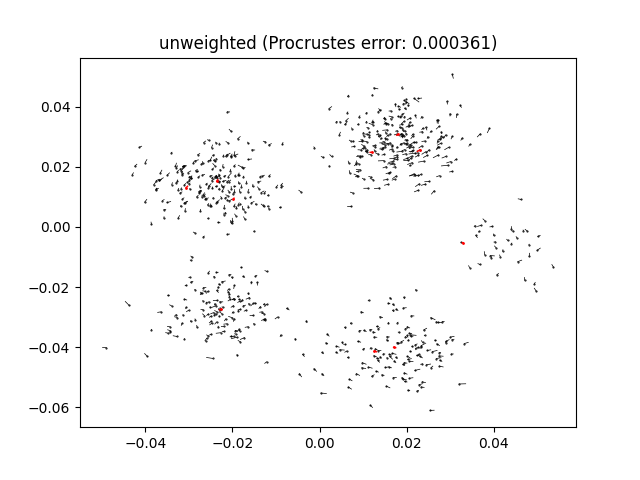
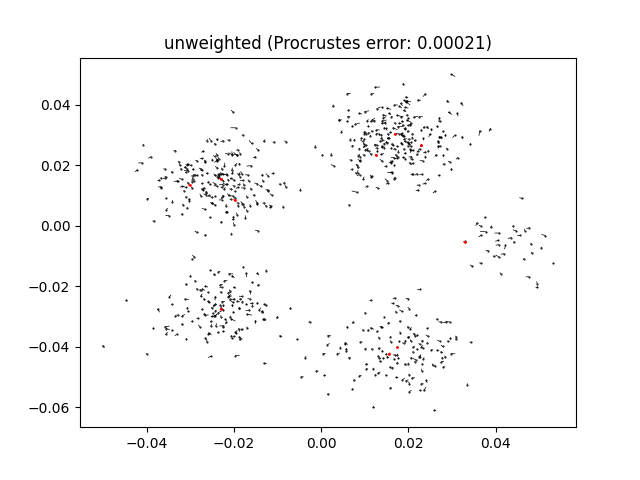
fix weird formatting of references

diff --git a/docs/searchindex.js b/docs/searchindex.js
@@ -1,1 +1,1 @@
-Search.setIndex({docnames:["index","installation","reference","reference/local2global.example","reference/local2global.example.Voronoi_patches","reference/local2global.example.add_noise","reference/local2global.example.generate_data","reference/local2global.example.noise_profile","reference/local2global.example.plot_reconstruction","reference/local2global.example.rand_orth","reference/local2global.example.rand_rotate_patches","reference/local2global.example.rand_scale_patches","reference/local2global.example.rand_shift_patches","reference/local2global.example.save_data","reference/local2global.test_local2global","reference/local2global.test_local2global.iter_seed","reference/local2global.test_local2global.seed","reference/local2global.test_local2global.test_calc_synchronised_rotations","reference/local2global.test_local2global.test_calc_synchronised_scales","reference/local2global.test_local2global.test_calc_synchronised_translations","reference/local2global.test_local2global.test_get_aligned_embedding","reference/local2global.test_local2global.test_noisy_calc_synchronised_rotations","reference/local2global.test_local2global.test_noisy_calc_synchronised_scales","reference/local2global.test_local2global.test_noisy_calc_synchronised_translations","reference/local2global.test_local2global.test_noisy_get_aligned_embedding","reference/local2global.test_local2global.test_stability","reference/local2global.utils","reference/local2global.utils.AlignmentProblem","reference/local2global.utils.Patch","reference/local2global.utils.WeightedAlignmentProblem","reference/local2global.utils.ensure_extension","reference/local2global.utils.nearest_orthogonal","reference/local2global.utils.orthogonal_MSE_error","reference/local2global.utils.procrustes_error","reference/local2global.utils.relative_orthogonal_transform","reference/local2global.utils.relative_scale","reference/local2global.utils.seed","reference/local2global.utils.transform_error","test","usage/index","usage/sg_execution_times","usage/usage","usage_source/README"],envversion:{"sphinx.domains.c":2,"sphinx.domains.changeset":1,"sphinx.domains.citation":1,"sphinx.domains.cpp":4,"sphinx.domains.index":1,"sphinx.domains.javascript":2,"sphinx.domains.math":2,"sphinx.domains.python":3,"sphinx.domains.rst":2,"sphinx.domains.std":2,"sphinx.ext.viewcode":1,sphinx:56},filenames:["index.rst","installation.rst","reference.rst","reference/local2global.example.rst","reference/local2global.example.Voronoi_patches.rst","reference/local2global.example.add_noise.rst","reference/local2global.example.generate_data.rst","reference/local2global.example.noise_profile.rst","reference/local2global.example.plot_reconstruction.rst","reference/local2global.example.rand_orth.rst","reference/local2global.example.rand_rotate_patches.rst","reference/local2global.example.rand_scale_patches.rst","reference/local2global.example.rand_shift_patches.rst","reference/local2global.example.save_data.rst","reference/local2global.test_local2global.rst","reference/local2global.test_local2global.iter_seed.rst","reference/local2global.test_local2global.seed.rst","reference/local2global.test_local2global.test_calc_synchronised_rotations.rst","reference/local2global.test_local2global.test_calc_synchronised_scales.rst","reference/local2global.test_local2global.test_calc_synchronised_translations.rst","reference/local2global.test_local2global.test_get_aligned_embedding.rst","reference/local2global.test_local2global.test_noisy_calc_synchronised_rotations.rst","reference/local2global.test_local2global.test_noisy_calc_synchronised_scales.rst","reference/local2global.test_local2global.test_noisy_calc_synchronised_translations.rst","reference/local2global.test_local2global.test_noisy_get_aligned_embedding.rst","reference/local2global.test_local2global.test_stability.rst","reference/local2global.utils.rst","reference/local2global.utils.AlignmentProblem.rst","reference/local2global.utils.Patch.rst","reference/local2global.utils.WeightedAlignmentProblem.rst","reference/local2global.utils.ensure_extension.rst","reference/local2global.utils.nearest_orthogonal.rst","reference/local2global.utils.orthogonal_MSE_error.rst","reference/local2global.utils.procrustes_error.rst","reference/local2global.utils.relative_orthogonal_transform.rst","reference/local2global.utils.relative_scale.rst","reference/local2global.utils.seed.rst","reference/local2global.utils.transform_error.rst","test.rst","usage/index.rst","usage/sg_execution_times.rst","usage/usage.rst","usage_source/README.rst"],objects:{"local2global.example":{Voronoi_patches:[4,1,1,""],add_noise:[5,1,1,""],generate_data:[6,1,1,""],noise_profile:[7,1,1,""],plot_reconstruction:[8,1,1,""],rand_orth:[9,1,1,""],rand_rotate_patches:[10,1,1,""],rand_scale_patches:[11,1,1,""],rand_shift_patches:[12,1,1,""],save_data:[13,1,1,""]},"local2global.test_local2global":{iter_seed:[15,1,1,""],seed:[16,1,1,""],test_calc_synchronised_rotations:[17,1,1,""],test_calc_synchronised_scales:[18,1,1,""],test_calc_synchronised_translations:[19,1,1,""],test_get_aligned_embedding:[20,1,1,""],test_noisy_calc_synchronised_rotations:[21,1,1,""],test_noisy_calc_synchronised_scales:[22,1,1,""],test_noisy_calc_synchronised_translations:[23,1,1,""],test_noisy_get_aligned_embedding:[24,1,1,""],test_stability:[25,1,1,""]},"local2global.utils":{AlignmentProblem:[27,2,1,""],Patch:[28,2,1,""],WeightedAlignmentProblem:[29,2,1,""],ensure_extension:[30,1,1,""],nearest_orthogonal:[31,1,1,""],orthogonal_MSE_error:[32,1,1,""],procrustes_error:[33,1,1,""],relative_orthogonal_transform:[34,1,1,""],relative_scale:[35,1,1,""],seed:[36,1,1,""],transform_error:[37,1,1,""]},"local2global.utils.AlignmentProblem":{__init__:[27,3,1,""],calc_synchronised_rotations:[27,3,1,""],calc_synchronised_scales:[27,3,1,""],calc_synchronised_translations:[27,3,1,""],get_aligned_embedding:[27,3,1,""],load:[27,3,1,""],mean_embedding:[27,3,1,""],rotate_patches:[27,3,1,""],save_embedding:[27,3,1,""],save_patches:[27,3,1,""],scale_patches:[27,3,1,""],translate_patches:[27,3,1,""],weight:[27,3,1,""]},"local2global.utils.Patch":{__init__:[28,3,1,""],get_coordinate:[28,3,1,""],get_coordinates:[28,3,1,""]},"local2global.utils.WeightedAlignmentProblem":{__init__:[29,3,1,""],calc_synchronised_rotations:[29,3,1,""],calc_synchronised_scales:[29,3,1,""],calc_synchronised_translations:[29,3,1,""],get_aligned_embedding:[29,3,1,""],load:[29,3,1,""],mean_embedding:[29,3,1,""],rotate_patches:[29,3,1,""],save_embedding:[29,3,1,""],save_patches:[29,3,1,""],scale_patches:[29,3,1,""],translate_patches:[29,3,1,""],weight:[29,3,1,""]},local2global:{example:[3,0,0,"-"],test_local2global:[14,0,0,"-"],utils:[26,0,0,"-"]}},objnames:{"0":["py","module","Python module"],"1":["py","function","Python function"],"2":["py","class","Python class"],"3":["py","method","Python method"]},objtypes:{"0":"py:module","1":"py:function","2":"py:class","3":"py:method"},terms:{"0":[1,6,7,11,12,27,29,35,40,41],"00":40,"01":[11,41],"02":40,"1":[0,1,4,5,6,11,27,29,41],"10":[0,6,41],"100":[4,12],"100000000":[27,29,35],"101":7,"1145":0,"12224":0,"1e8":[27,29],"2":[0,6,41],"200":6,"2012":0,"2021":0,"21":0,"2107":0,"2240092":0,"2240093":0,"3":0,"300":41,"3g":41,"42":41,"5":[6,7,41],"6":4,"705":[40,41],"8":0,"case":41,"class":[26,27,28,29,41],"default":[4,6,7,8,27,29,41],"final":4,"float":[4,6,11,12],"function":[3,7,14,26],"import":41,"int":[4,6,27,29],"new":36,"return":[4,7,10,11,12,27,29,30,41],"true":[4,7,8,10,11,12,27,29,41],A:0,For:[38,41],If:[1,27,29],In:41,The:[0,1,37,38,41],To:[1,38,41],__init__:[27,28,29],accept:41,accord:29,accordingli:7,acm:0,across:37,ad:[4,12,30],add:[5,30,41],add_nois:41,after:37,algorithm:[0,26,27,29],align:[0,5,7,8,10,11,12,27,29,33,34],alignment_problem:[5,10,11,12],alignmentproblem:[5,7,10,11,12,29,41],all:[27,29,37,39],allow:[27,29],along:38,alpha:41,alreadi:[27,29],also:41,an:27,ani:[4,38,41],appli:[27,29],ar:[4,11,27,29,38,41],arg:38,argument:38,arrai:[27,28,29,33,34,35],artifici:41,arxiv:0,assign:[4,41],assum:41,assumpt:41,attribut:[27,28,29],avail:41,base:[0,27,28,29,37],base_problem:7,bazzi:0,behaviour:41,best:[27,29,34],between:[7,29,32,33],bool:[4,7,27,29],both:41,c:41,cach:41,calc_synchronised_rot:[27,29],calc_synchronised_scal:[27,29],calc_synchronised_transl:[27,29],calcul:25,call:41,can:[1,37,41],center:[4,6,41],centroid:[27,29],chang:36,check:[30,38],choos:4,circl:41,clamp:35,classmethod:[27,29],click:41,clip:[27,29],closest:4,cluster:[6,41],code:[0,39,41],colavizza:0,com:1,command:38,common:[27,29],comparison:41,compon:41,comput:[27,29,31,32,33,35,37],connect:[4,27,29,41],consid:[4,27,29,41],consist:41,constant:37,constraint:[4,41],contain:[38,41],control:41,coordin:[27,28,29,33,34,35,41],coordinates1:[33,34,35],coordinates2:[33,34,35],copi:[27,29],copy_data:[27,29],correspond:[5,28],creat:4,cs:0,cucuringu:0,d:4,data:[0,3,6,7,38],degre:4,desir:30,detail:38,develop:1,deviat:[5,6,7,12,37,41],diagnost:[27,29],dim:[6,9,27,28,29,41],dimens:[4,6,27,29,41],distanc:41,distribut:[5,6,9,12,41],dlg:0,doi:0,dong:0,download:[39,41],each:[5,7,8,27,29,41],edg:[4,27,29,41],eigenvector:[0,25],element:37,embed:[0,4,27,28,29,37],ensur:9,ep:[4,41],equal:41,error:[7,8,33,37,41],error_weight:41,euclidean:0,even:[27,29],ex:41,exampl:[0,39,41],execut:40,exist:[27,29],expand:[4,41],expect:41,extens:30,f:41,factor:[11,27],fals:[4,27,29],file:[27,29,40],filenam:[13,27,29,30],find:34,first:[27,29,32,33,34,35,41],fix:41,form:41,from:[4,11,27,28,29],full:41,further:41,g:0,galleri:[39,41],gener:[0,3,6,36,39],generate_data:41,get:28,get_aligned_embed:[27,29,41],get_coordin:28,git:1,github:[0,1],given:[27,29,31],global:[0,32,37],goal:41,graph:[0,4,27,41],ground:41,group:0,grown:4,ha:[30,41],have:[7,33,34,35],here:41,heterogen:41,host:0,http:1,i:[27,29],identifi:41,illustr:41,implement:[0,26,27,41],includ:[7,27,29,30,38],increment:4,indec:28,index:[27,28,29],inform:[27,29],initi:4,initialis:[27,28,29],input:[0,27,29,30,31,41],instal:0,instead:[1,27,29],integ:28,interfac:41,interv:11,ipynb:41,iter:28,itself:[27,29],j:[27,29],jeub:0,json:[27,29],jupyt:[39,41],k:41,kdd:0,kmean:[4,41],l2g:41,label:7,latest:1,learn:0,least:[27,29,41],legend:7,len:[4,28],level:7,lg:0,like:[28,33,34,35],line:38,lipman:0,list:[4,5,7,10,11,27,28,29,32,37,41],ljeub:1,load:[27,29],local2glob:[1,38],local:0,log:11,loop:[27,29],m:[0,38],mai:41,main:41,make:[4,41],master:1,mat:31,matplotlib:41,matric:32,matrix:[9,31],max_nois:7,max_scal:[27,29],max_siz:[6,41],maximum:[6,7,27,29,41],mb:40,mean:[37,41],mean_embed:[27,29],method:[0,27,28,29],min_degre:4,min_overlap:[4,7,17,18,19,20,21,22,23,24,25,27,29],min_scal:11,min_siz:[4,6],minimum:[4,6,11,27,29],minut:41,more:41,mse:32,multipli:5,n:4,n_cluster:[6,41],n_node:[27,29],ndarrai:[4,12],nearest:[4,31,41],necessari:[4,30],need:[33,34,35,41],network:0,networkx:4,new_se:36,next:[4,41],node:[27,28,29,34,35,41],nois:[5,7,21,22,23,24,41],noise_level:[5,7],none:[4,5,7,27,29],normal:[5,6,9,12,41],note:[33,34,35],notebook:[39,41],np:[4,12],number:[4,6,7,27,29,36,41],numpi:[27,29],object:[27,28,41],obtain:0,onli:[27,29,37],option:[5,41],orthogon:[9,27,29,31,32,34],other:41,otherwis:4,output:[27,29],over:[0,27,29,37],overlap:[0,4,27,29,41],overrid:27,p:41,packag:[1,38,41],pair:[27,29,41],param:[27,29],paramet:[4,5,6,7,8,10,11,12,27,28,29,30,31,32,33,34,35,36,37],part:41,pass:38,patch:[0,4,5,7,8,10,11,12,17,18,19,20,21,22,23,24,25,27,29,37],patch_edg:[27,29],path:[27,29],perform:38,pip:1,plot:[7,8],plot_reconstruct:41,plt:41,point:[4,5,6,7,8,13,20,24,27,29,41],posit:8,print:[27,29],problem:[5,7,8,10,11,12,27,29],problem_cl:[17,18,19,20,22,24,25],procrust:[7,33,41],provid:[27,29,41],purpos:41,py:[40,41],pyplot:41,pytest:38,python:[0,38,39,41],radiu:6,rais:30,rand_rotate_patch:41,rand_shift_patch:41,random:[4,5,9,36,41],randomli:[10,11,12],rang:[27,29],realign:[27,29,41],recomput:[27,29],reconstruct:[7,8,14,38,41],recov:37,recovered_point:41,recovered_points_weight:41,recoveri:37,reflect:[27,29,41],rel:[27,29,35],releas:1,represent:0,requir:[27,29],rerun:41,rescal:[8,11,27,29],restor:[27,29],result:[7,41],return_graph:4,robust:41,rotat:[7,10,27,29,37,41],rotate_patch:[27,29],rots1:32,rots2:32,run:[1,38,41],s:41,same:[7,33,34,35,41],sampl:[4,9,11],sample_s:[4,41],satisfi:[4,41],save:[27,29],save_embed:[27,29],save_patch:[27,29],scale:[0,5,6,7,8,11,27,29,35,37,41],scale_factor:[27,29],scale_patch:[27,29],scatter:41,script:41,second:[27,29,32,33,34,35,41],see:[38,41],seed:41,self:[27,29],self_loop:[27,29],sensor:0,separ:41,set:[0,4,32,33,34,35],shape:[4,28,33,34,35],share:[29,41],shift:[7,12,41],shift_scal:[12,41],shortest:4,should:[7,37],show:41,simpli:1,singer:0,singl:[28,41],size:[4,6,41],smaller:4,some:41,sourc:[0,4,5,6,7,8,9,10,11,12,13,15,16,17,18,19,20,21,22,23,24,25,27,28,29,30,31,32,33,34,35,36,37,39,41],space:41,sphere:6,sphinx:[39,41],split:[4,41],stabil:25,standard:[5,6,7,12,27,37,41],start:4,std:[6,41],step:[0,7],subclass:[7,27],subsequ:41,synchron:[0,27,29],synchronis:[0,27,29],synthet:[0,3,38],test:[0,3,6,7,9,10,11,12,14,25],test_class:21,test_local2glob:[0,38],than:4,thei:41,them:0,thi:[0,27,41],time:41,titl:41,toler:4,total:[40,41],track:37,train:0,transact:0,transform:[5,10,12,27,29,32,34,37,41],translat:[27,29,37,41],translate_patch:[27,29],true_rot:41,true_shift:41,truth:41,two:[4,27,29,32,33,34,35],type:7,uniform:9,uniformli:[4,11,41],unit:41,unless:41,until:4,unweight:[27,41],up:[32,37],us:[0,1,4,7,9,10,11,12,27,38,41],usag:[0,40],usage_jupyt:39,usage_python:39,usual:7,util:[0,5,10,11,12,41],v:1,valu:[7,36],valueerror:30,variant:29,vector:12,verbos:[27,29],version:1,via:0,visualis:41,voronoi:4,voronoi_patch:41,want:1,we:[37,41],weight:[27,29,41],weighted_problem:41,weightedalignmentproblem:41,when:41,where:[27,29,38,41],which:41,whose:41,within:[4,41],without:[7,41],work:41,wrong:30,x:[0,27,29],y:0,you:1,zip:39},titles:["Home","Installation","Reference","local2global.example","local2global.example.Voronoi_patches","local2global.example.add_noise","local2global.example.generate_data","local2global.example.noise_profile","local2global.example.plot_reconstruction","local2global.example.rand_orth","local2global.example.rand_rotate_patches","local2global.example.rand_scale_patches","local2global.example.rand_shift_patches","local2global.example.save_data","local2global.test_local2global","local2global.test_local2global.iter_seed","local2global.test_local2global.seed","local2global.test_local2global.test_calc_synchronised_rotations","local2global.test_local2global.test_calc_synchronised_scales","local2global.test_local2global.test_calc_synchronised_translations","local2global.test_local2global.test_get_aligned_embedding","local2global.test_local2global.test_noisy_calc_synchronised_rotations","local2global.test_local2global.test_noisy_calc_synchronised_scales","local2global.test_local2global.test_noisy_calc_synchronised_translations","local2global.test_local2global.test_noisy_get_aligned_embedding","local2global.test_local2global.test_stability","local2global.utils","local2global.utils.AlignmentProblem","local2global.utils.Patch","local2global.utils.WeightedAlignmentProblem","local2global.utils.ensure_extension","local2global.utils.nearest_orthogonal","local2global.utils.orthogonal_MSE_error","local2global.utils.procrustes_error","local2global.utils.relative_orthogonal_transform","local2global.utils.relative_scale","local2global.utils.seed","local2global.utils.transform_error","Tests","Usage","Computation times","Usage","Usage"],titleterms:{add_nois:5,algorithm:41,align:41,alignmentproblem:27,comput:40,content:0,data:41,embed:41,ensure_extens:30,exampl:[3,4,5,6,7,8,9,10,11,12,13],gener:41,generate_data:6,global:41,home:0,index:0,instal:1,iter_se:15,local2glob:[0,3,4,5,6,7,8,9,10,11,12,13,14,15,16,17,18,19,20,21,22,23,24,25,26,27,28,29,30,31,32,33,34,35,36,37,41],nearest_orthogon:31,noise_profil:7,orthogonal_mse_error:32,patch:[28,41],perturb:41,plot_reconstruct:8,problem:41,procrustes_error:33,rand_orth:9,rand_rotate_patch:10,rand_scale_patch:11,rand_shift_patch:12,recov:41,refer:[0,2],relative_orthogonal_transform:34,relative_scal:35,save_data:13,seed:[16,36],set:41,synthet:41,test:[38,41],test_calc_synchronised_rot:17,test_calc_synchronised_scal:18,test_calc_synchronised_transl:19,test_get_aligned_embed:20,test_local2glob:[14,15,16,17,18,19,20,21,22,23,24,25],test_noisy_calc_synchronised_rot:21,test_noisy_calc_synchronised_scal:22,test_noisy_calc_synchronised_transl:23,test_noisy_get_aligned_embed:24,test_stabl:25,time:40,transform_error:37,up:41,usag:[39,41,42],util:[26,27,28,29,30,31,32,33,34,35,36,37],voronoi_patch:4,weightedalignmentproblem:29}})
+Search.setIndex({docnames:["index","installation","reference","reference/local2global.example","reference/local2global.example.Voronoi_patches","reference/local2global.example.add_noise","reference/local2global.example.generate_data","reference/local2global.example.noise_profile","reference/local2global.example.plot_reconstruction","reference/local2global.example.rand_orth","reference/local2global.example.rand_rotate_patches","reference/local2global.example.rand_scale_patches","reference/local2global.example.rand_shift_patches","reference/local2global.example.save_data","reference/local2global.test_local2global","reference/local2global.test_local2global.iter_seed","reference/local2global.test_local2global.seed","reference/local2global.test_local2global.test_calc_synchronised_rotations","reference/local2global.test_local2global.test_calc_synchronised_scales","reference/local2global.test_local2global.test_calc_synchronised_translations","reference/local2global.test_local2global.test_get_aligned_embedding","reference/local2global.test_local2global.test_noisy_calc_synchronised_rotations","reference/local2global.test_local2global.test_noisy_calc_synchronised_scales","reference/local2global.test_local2global.test_noisy_calc_synchronised_translations","reference/local2global.test_local2global.test_noisy_get_aligned_embedding","reference/local2global.test_local2global.test_stability","reference/local2global.utils","reference/local2global.utils.AlignmentProblem","reference/local2global.utils.Patch","reference/local2global.utils.WeightedAlignmentProblem","reference/local2global.utils.ensure_extension","reference/local2global.utils.nearest_orthogonal","reference/local2global.utils.orthogonal_MSE_error","reference/local2global.utils.procrustes_error","reference/local2global.utils.relative_orthogonal_transform","reference/local2global.utils.relative_scale","reference/local2global.utils.seed","reference/local2global.utils.transform_error","test","usage/index","usage/sg_execution_times","usage/usage","usage_source/README"],envversion:{"sphinx.domains.c":2,"sphinx.domains.changeset":1,"sphinx.domains.citation":1,"sphinx.domains.cpp":4,"sphinx.domains.index":1,"sphinx.domains.javascript":2,"sphinx.domains.math":2,"sphinx.domains.python":3,"sphinx.domains.rst":2,"sphinx.domains.std":2,"sphinx.ext.viewcode":1,sphinx:56},filenames:["index.rst","installation.rst","reference.rst","reference/local2global.example.rst","reference/local2global.example.Voronoi_patches.rst","reference/local2global.example.add_noise.rst","reference/local2global.example.generate_data.rst","reference/local2global.example.noise_profile.rst","reference/local2global.example.plot_reconstruction.rst","reference/local2global.example.rand_orth.rst","reference/local2global.example.rand_rotate_patches.rst","reference/local2global.example.rand_scale_patches.rst","reference/local2global.example.rand_shift_patches.rst","reference/local2global.example.save_data.rst","reference/local2global.test_local2global.rst","reference/local2global.test_local2global.iter_seed.rst","reference/local2global.test_local2global.seed.rst","reference/local2global.test_local2global.test_calc_synchronised_rotations.rst","reference/local2global.test_local2global.test_calc_synchronised_scales.rst","reference/local2global.test_local2global.test_calc_synchronised_translations.rst","reference/local2global.test_local2global.test_get_aligned_embedding.rst","reference/local2global.test_local2global.test_noisy_calc_synchronised_rotations.rst","reference/local2global.test_local2global.test_noisy_calc_synchronised_scales.rst","reference/local2global.test_local2global.test_noisy_calc_synchronised_translations.rst","reference/local2global.test_local2global.test_noisy_get_aligned_embedding.rst","reference/local2global.test_local2global.test_stability.rst","reference/local2global.utils.rst","reference/local2global.utils.AlignmentProblem.rst","reference/local2global.utils.Patch.rst","reference/local2global.utils.WeightedAlignmentProblem.rst","reference/local2global.utils.ensure_extension.rst","reference/local2global.utils.nearest_orthogonal.rst","reference/local2global.utils.orthogonal_MSE_error.rst","reference/local2global.utils.procrustes_error.rst","reference/local2global.utils.relative_orthogonal_transform.rst","reference/local2global.utils.relative_scale.rst","reference/local2global.utils.seed.rst","reference/local2global.utils.transform_error.rst","test.rst","usage/index.rst","usage/sg_execution_times.rst","usage/usage.rst","usage_source/README.rst"],objects:{"local2global.example":{Voronoi_patches:[4,1,1,""],add_noise:[5,1,1,""],generate_data:[6,1,1,""],noise_profile:[7,1,1,""],plot_reconstruction:[8,1,1,""],rand_orth:[9,1,1,""],rand_rotate_patches:[10,1,1,""],rand_scale_patches:[11,1,1,""],rand_shift_patches:[12,1,1,""],save_data:[13,1,1,""]},"local2global.test_local2global":{iter_seed:[15,1,1,""],seed:[16,1,1,""],test_calc_synchronised_rotations:[17,1,1,""],test_calc_synchronised_scales:[18,1,1,""],test_calc_synchronised_translations:[19,1,1,""],test_get_aligned_embedding:[20,1,1,""],test_noisy_calc_synchronised_rotations:[21,1,1,""],test_noisy_calc_synchronised_scales:[22,1,1,""],test_noisy_calc_synchronised_translations:[23,1,1,""],test_noisy_get_aligned_embedding:[24,1,1,""],test_stability:[25,1,1,""]},"local2global.utils":{AlignmentProblem:[27,2,1,""],Patch:[28,2,1,""],WeightedAlignmentProblem:[29,2,1,""],ensure_extension:[30,1,1,""],nearest_orthogonal:[31,1,1,""],orthogonal_MSE_error:[32,1,1,""],procrustes_error:[33,1,1,""],relative_orthogonal_transform:[34,1,1,""],relative_scale:[35,1,1,""],seed:[36,1,1,""],transform_error:[37,1,1,""]},"local2global.utils.AlignmentProblem":{__init__:[27,3,1,""],calc_synchronised_rotations:[27,3,1,""],calc_synchronised_scales:[27,3,1,""],calc_synchronised_translations:[27,3,1,""],get_aligned_embedding:[27,3,1,""],load:[27,3,1,""],mean_embedding:[27,3,1,""],rotate_patches:[27,3,1,""],save_embedding:[27,3,1,""],save_patches:[27,3,1,""],scale_patches:[27,3,1,""],translate_patches:[27,3,1,""],weight:[27,3,1,""]},"local2global.utils.Patch":{__init__:[28,3,1,""],get_coordinate:[28,3,1,""],get_coordinates:[28,3,1,""]},"local2global.utils.WeightedAlignmentProblem":{__init__:[29,3,1,""],calc_synchronised_rotations:[29,3,1,""],calc_synchronised_scales:[29,3,1,""],calc_synchronised_translations:[29,3,1,""],get_aligned_embedding:[29,3,1,""],load:[29,3,1,""],mean_embedding:[29,3,1,""],rotate_patches:[29,3,1,""],save_embedding:[29,3,1,""],save_patches:[29,3,1,""],scale_patches:[29,3,1,""],translate_patches:[29,3,1,""],weight:[29,3,1,""]},local2global:{example:[3,0,0,"-"],test_local2global:[14,0,0,"-"],utils:[26,0,0,"-"]}},objnames:{"0":["py","module","Python module"],"1":["py","function","Python function"],"2":["py","class","Python class"],"3":["py","method","Python method"]},objtypes:{"0":"py:module","1":"py:function","2":"py:class","3":"py:method"},terms:{"0":[1,6,7,11,12,27,29,35,40,41],"00":40,"01":[11,41],"092":[40,41],"1":[0,1,4,5,6,11,27,29,41],"10":[0,6,41],"100":[4,12],"100000000":[27,29,35],"101":7,"1145":0,"12224":0,"1e8":[27,29],"2":[0,6,41],"200":6,"2012":0,"2021":0,"21":0,"2107":0,"22":[40,41],"2240092":0,"2240093":0,"3":0,"300":41,"3g":41,"42":41,"5":[6,7,41],"6":4,"8":0,"case":41,"class":[26,27,28,29,41],"default":[4,6,7,8,27,29,41],"final":4,"float":[4,6,11,12],"function":[3,7,14,26],"import":41,"int":[4,6,27,29],"new":36,"return":[4,7,10,11,12,27,29,30,41],"true":[4,7,8,10,11,12,27,29,41],A:0,For:[38,41],If:[1,27,29],In:41,The:[0,1,37,38,41],To:[1,38,41],__init__:[27,28,29],accept:41,accord:29,accordingli:7,acm:0,across:37,ad:[4,12,30],add:[5,30,41],add_nois:41,after:37,algorithm:[0,26,27,29],align:[0,5,7,8,10,11,12,27,29,33,34],alignment_problem:[5,10,11,12],alignmentproblem:[5,7,10,11,12,29,41],all:[27,29,37,39],allow:[27,29],along:38,alpha:41,alreadi:[27,29],also:41,an:27,ani:[4,38,41],appli:[27,29],ar:[4,11,27,29,38,41],arg:38,argument:38,arrai:[27,28,29,33,34,35],artifici:41,arxiv:0,assign:[4,41],assum:41,assumpt:41,attribut:[27,28,29],avail:41,base:[0,27,28,29,37],base_problem:7,bazzi:0,behaviour:41,best:[27,29,34],between:[7,29,32,33],bool:[4,7,27,29],both:41,c:41,cach:41,calc_synchronised_rot:[27,29],calc_synchronised_scal:[27,29],calc_synchronised_transl:[27,29],calcul:25,call:41,can:[1,37,41],center:[4,6,41],centroid:[27,29],chang:36,check:[30,38],choos:4,circl:41,clamp:35,classmethod:[27,29],click:41,clip:[27,29],closest:4,cluster:[6,41],code:[0,39,41],colavizza:0,com:1,command:38,common:[27,29],comparison:41,compon:41,comput:[27,29,31,32,33,35,37],connect:[4,27,29,41],consid:[4,27,29,41],consist:41,constant:37,constraint:[4,41],contain:[38,41],control:41,coordin:[27,28,29,33,34,35,41],coordinates1:[33,34,35],coordinates2:[33,34,35],copi:[27,29],copy_data:[27,29],correspond:[5,28],creat:4,cs:0,cucuringu:0,d:4,data:[0,3,6,7,38],degre:4,desir:30,detail:38,develop:1,deviat:[5,6,7,12,37,41],diagnost:[27,29],dim:[6,9,27,28,29,41],dimens:[4,6,27,29,41],distanc:41,distribut:[5,6,9,12,41],dlg:0,doi:0,dong:0,download:[39,41],each:[5,7,8,27,29,41],edg:[4,27,29,41],eigenvector:[0,25],element:37,embed:[0,4,27,28,29,37],ensur:9,ep:[4,41],equal:41,error:[7,8,33,37,41],error_weight:41,euclidean:0,even:[27,29],ex:41,exampl:[0,39,41],execut:40,exist:[27,29],expand:[4,41],expect:41,extens:30,f:41,factor:[11,27],fals:[4,27,29],file:[27,29,40],filenam:[13,27,29,30],find:34,first:[27,29,32,33,34,35,41],fix:41,form:41,from:[4,11,27,28,29],full:41,further:41,g:0,galleri:[39,41],gener:[0,3,6,36,39],generate_data:41,get:28,get_aligned_embed:[27,29,41],get_coordin:28,git:1,github:[0,1],given:[27,29,31],global:[0,32,37],goal:41,graph:[0,4,27,41],ground:41,group:0,grown:4,ha:[30,41],have:[7,33,34,35],here:41,heterogen:41,host:0,http:1,i:[27,29],identifi:41,illustr:41,implement:[0,26,27,41],includ:[7,27,29,30,38],increment:4,indec:28,index:[27,28,29],inform:[27,29],initi:4,initialis:[27,28,29],input:[0,27,29,30,31,41],instal:0,instead:[1,27,29],integ:28,interfac:41,interv:11,ipynb:41,iter:28,itself:[27,29],j:[27,29],jeub:0,json:[27,29],jupyt:[39,41],k:41,kdd:0,kmean:[4,41],l2g:41,l:0,label:7,latest:1,learn:0,least:[27,29,41],legend:7,len:[4,28],level:7,lg:0,like:[28,33,34,35],line:38,lipman:0,list:[4,5,7,10,11,27,28,29,32,37,41],ljeub:1,load:[27,29],local2glob:[1,38],local:0,log:11,loop:[27,29],m:[0,38],mai:41,main:41,make:[4,41],master:1,mat:31,matplotlib:41,matric:32,matrix:[9,31],max_nois:7,max_scal:[27,29],max_siz:[6,41],maximum:[6,7,27,29,41],mb:40,mean:[37,41],mean_embed:[27,29],method:[0,27,28,29],min_degre:4,min_overlap:[4,7,17,18,19,20,21,22,23,24,25,27,29],min_scal:11,min_siz:[4,6],minimum:[4,6,11,27,29],minut:41,more:41,mse:32,multipli:5,n:4,n_cluster:[6,41],n_node:[27,29],ndarrai:[4,12],nearest:[4,31,41],necessari:[4,30],need:[33,34,35,41],network:0,networkx:4,new_se:36,next:[4,41],node:[27,28,29,34,35,41],nois:[5,7,21,22,23,24,41],noise_level:[5,7],none:[4,5,7,27,29],normal:[5,6,9,12,41],note:[33,34,35],notebook:[39,41],np:[4,12],number:[4,6,7,27,29,36,41],numpi:[27,29],object:[27,28,41],obtain:0,onli:[27,29,37],option:[5,41],orthogon:[9,27,29,31,32,34],other:41,otherwis:4,output:[27,29],over:[0,27,29,37],overlap:[0,4,27,29,41],overrid:27,p:41,packag:[1,38,41],pair:[27,29,41],param:[27,29],paramet:[4,5,6,7,8,10,11,12,27,28,29,30,31,32,33,34,35,36,37],part:41,pass:38,patch:[0,4,5,7,8,10,11,12,17,18,19,20,21,22,23,24,25,27,29,37],patch_edg:[27,29],path:[27,29],perform:38,pip:1,plot:[7,8],plot_reconstruct:41,plt:41,point:[4,5,6,7,8,13,20,24,27,29,41],posit:8,print:[27,29],problem:[5,7,8,10,11,12,27,29],problem_cl:[17,18,19,20,22,24,25],procrust:[7,33,41],provid:[27,29,41],purpos:41,py:[40,41],pyplot:41,pytest:38,python:[0,38,39,41],radiu:6,rais:30,rand_rotate_patch:41,rand_shift_patch:41,random:[4,5,9,36,41],randomli:[10,11,12],rang:[27,29],realign:[27,29,41],recomput:[27,29],reconstruct:[7,8,14,38,41],recov:37,recovered_point:41,recovered_points_weight:41,recoveri:37,reflect:[27,29,41],rel:[27,29,35],releas:1,represent:0,requir:[27,29],rerun:41,rescal:[8,11,27,29],restor:[27,29],result:[7,41],return_graph:4,robust:41,rotat:[7,10,27,29,37,41],rotate_patch:[27,29],rots1:32,rots2:32,run:[1,38,41],s:[0,41],same:[7,33,34,35,41],sampl:[4,9,11],sample_s:[4,41],satisfi:[4,41],save:[27,29],save_embed:[27,29],save_patch:[27,29],scale:[0,5,6,7,8,11,27,29,35,37,41],scale_factor:[27,29],scale_patch:[27,29],scatter:41,script:41,second:[27,29,32,33,34,35,41],see:[38,41],seed:41,self:[27,29],self_loop:[27,29],sensor:0,separ:41,set:[0,4,32,33,34,35],shape:[4,28,33,34,35],share:[29,41],shift:[7,12,41],shift_scal:[12,41],shortest:4,should:[7,37],show:41,simpli:1,singer:0,singl:[28,41],size:[4,6,41],smaller:4,some:41,sourc:[0,4,5,6,7,8,9,10,11,12,13,15,16,17,18,19,20,21,22,23,24,25,27,28,29,30,31,32,33,34,35,36,37,39,41],space:41,sphere:6,sphinx:[39,41],split:[4,41],stabil:25,standard:[5,6,7,12,27,37,41],start:4,std:[6,41],step:[0,7],subclass:[7,27],subsequ:41,synchron:[0,27,29],synchronis:[0,27,29],synthet:[0,3,38],test:[0,3,6,7,9,10,11,12,14,25],test_class:21,test_local2glob:[0,38],than:4,thei:41,them:0,thi:[0,27,41],time:41,titl:41,toler:4,total:[40,41],track:37,train:0,transact:0,transform:[5,10,12,27,29,32,34,37,41],translat:[27,29,37,41],translate_patch:[27,29],true_rot:41,true_shift:41,truth:41,two:[4,27,29,32,33,34,35],type:7,uniform:9,uniformli:[4,11,41],unit:41,unless:41,until:4,unweight:[27,41],up:[32,37],us:[0,1,4,7,9,10,11,12,27,38,41],usag:[0,40],usage_jupyt:39,usage_python:39,usual:7,util:[0,5,10,11,12,41],v:1,valu:[7,36],valueerror:30,variant:29,vector:12,verbos:[27,29],version:1,via:0,visualis:41,voronoi:4,voronoi_patch:41,want:1,we:[37,41],weight:[27,29,41],weighted_problem:41,weightedalignmentproblem:41,when:41,where:[27,29,38,41],which:41,whose:41,within:[4,41],without:[7,41],work:41,wrong:30,x:[0,27,29],y:0,you:1,zip:39},titles:["Home","Installation","Reference","local2global.example","local2global.example.Voronoi_patches","local2global.example.add_noise","local2global.example.generate_data","local2global.example.noise_profile","local2global.example.plot_reconstruction","local2global.example.rand_orth","local2global.example.rand_rotate_patches","local2global.example.rand_scale_patches","local2global.example.rand_shift_patches","local2global.example.save_data","local2global.test_local2global","local2global.test_local2global.iter_seed","local2global.test_local2global.seed","local2global.test_local2global.test_calc_synchronised_rotations","local2global.test_local2global.test_calc_synchronised_scales","local2global.test_local2global.test_calc_synchronised_translations","local2global.test_local2global.test_get_aligned_embedding","local2global.test_local2global.test_noisy_calc_synchronised_rotations","local2global.test_local2global.test_noisy_calc_synchronised_scales","local2global.test_local2global.test_noisy_calc_synchronised_translations","local2global.test_local2global.test_noisy_get_aligned_embedding","local2global.test_local2global.test_stability","local2global.utils","local2global.utils.AlignmentProblem","local2global.utils.Patch","local2global.utils.WeightedAlignmentProblem","local2global.utils.ensure_extension","local2global.utils.nearest_orthogonal","local2global.utils.orthogonal_MSE_error","local2global.utils.procrustes_error","local2global.utils.relative_orthogonal_transform","local2global.utils.relative_scale","local2global.utils.seed","local2global.utils.transform_error","Tests","Usage","Computation times","Usage","Usage"],titleterms:{add_nois:5,algorithm:41,align:41,alignmentproblem:27,comput:40,content:0,data:41,embed:41,ensure_extens:30,exampl:[3,4,5,6,7,8,9,10,11,12,13],gener:41,generate_data:6,global:41,home:0,index:0,instal:1,iter_se:15,local2glob:[0,3,4,5,6,7,8,9,10,11,12,13,14,15,16,17,18,19,20,21,22,23,24,25,26,27,28,29,30,31,32,33,34,35,36,37,41],nearest_orthogon:31,noise_profil:7,orthogonal_mse_error:32,patch:[28,41],perturb:41,plot_reconstruct:8,problem:41,procrustes_error:33,rand_orth:9,rand_rotate_patch:10,rand_scale_patch:11,rand_shift_patch:12,recov:41,refer:[0,2],relative_orthogonal_transform:34,relative_scal:35,save_data:13,seed:[16,36],set:41,synthet:41,test:[38,41],test_calc_synchronised_rot:17,test_calc_synchronised_scal:18,test_calc_synchronised_transl:19,test_get_aligned_embed:20,test_local2glob:[14,15,16,17,18,19,20,21,22,23,24,25],test_noisy_calc_synchronised_rot:21,test_noisy_calc_synchronised_scal:22,test_noisy_calc_synchronised_transl:23,test_noisy_get_aligned_embed:24,test_stabl:25,time:40,transform_error:37,up:41,usag:[39,41,42],util:[26,27,28,29,30,31,32,33,34,35,36,37],voronoi_patch:4,weightedalignmentproblem:29}})

diff --git a/docs/usage/usage.html b/docs/usage/usage.html
@@ -289,15 +289,15 @@ algorithm unless run with <code class="docutils literal notranslate"><span class
 <span class="n">plt</span><span class="o">.</span><span class="n">show</span><span class="p">()</span>
 </pre></div>
 </div>
-<img alt="unweighted (Procrustes error: 0.000361)" class="sphx-glr-single-img" src="../_images/sphx_glr_usage_003.png" />
+<img alt="unweighted (Procrustes error: 0.00021)" class="sphx-glr-single-img" src="../_images/sphx_glr_usage_003.png" />
 <p>and</p>
 <div class="highlight-default notranslate"><div class="highlight"><pre><span></span><span class="n">error_weighted</span> <span class="o">=</span> <span class="n">ex</span><span class="o">.</span><span class="n">plot_reconstruction</span><span class="p">(</span><span class="n">points</span><span class="p">,</span> <span class="n">weighted_problem</span><span class="p">)</span>
 <span class="n">plt</span><span class="o">.</span><span class="n">title</span><span class="p">(</span><span class="sa">f</span><span class="s2">&quot;weighted (Procrustes error: </span><span class="si">{</span><span class="n">error_weighted</span><span class="si">:</span><span class="s2">.3g</span><span class="si">}</span><span class="s2">)&quot;</span><span class="p">)</span>
 <span class="n">plt</span><span class="o">.</span><span class="n">show</span><span class="p">()</span>
 </pre></div>
 </div>
-<img alt="weighted (Procrustes error: 0.000222)" class="sphx-glr-single-img" src="../_images/sphx_glr_usage_004.png" />
-<p class="sphx-glr-timing"><strong>Total running time of the script:</strong> ( 0 minutes  2.705 seconds)</p>
+<img alt="weighted (Procrustes error: 0.000201)" class="sphx-glr-single-img" src="../_images/sphx_glr_usage_004.png" />
+<p class="sphx-glr-timing"><strong>Total running time of the script:</strong> ( 0 minutes  22.092 seconds)</p>
 <div class="sphx-glr-footer class sphx-glr-footer-example docutils container" id="sphx-glr-download-usage-usage-py">
 <div class="sphx-glr-download sphx-glr-download-python docutils container">
 <p><a class="reference download internal" download="" href="../_downloads/c90e4cd34a05823ce0cbf1807d16de22/usage.py"><code class="xref download docutils literal notranslate"><span class="pre">Download</span> <span class="pre">Python</span> <span class="pre">source</span> <span class="pre">code:</span> <span class="pre">usage.py</span></code></a></p>

diff --git a/docs/index.html b/docs/index.html
@@ -190,20 +190,10 @@ patches as input and aligns them to obtain a global embedding. The alignment ste
 <h3>References<a class="headerlink" href="#references" title="Permalink to this headline">¶</a></h3>
 <dl class="footnote brackets">
 <dt class="label" id="l2g"><span class="brackets"><a class="fn-backref" href="#id1">1</a></span></dt>
-<dd><ol class="upperalpha simple" start="12">
-<li><ol class="upperalpha simple" start="7">
-<li><ol class="upperalpha simple" start="19">
-<li><p>Jeub, G. Colavizza, X. Dong, M. Bazzi, M. Cucuringu (2021). Local2Global: Scaling global representation learning on graphs via local training. DLG-KDD’21. <a class="reference external" href="https://arxiv.org/abs/2107.12224">arXiv:2107.12224 [cs.LG]</a></p></li>
-</ol>
-</li>
-</ol>
-</li>
-</ol>
+<dd><p>L. G. S. Jeub, G. Colavizza, X. Dong, M. Bazzi, M. Cucuringu (2021). Local2Global: Scaling global representation learning on graphs via local training. DLG-KDD’21. <a class="reference external" href="https://arxiv.org/abs/2107.12224">arXiv:2107.12224 [cs.LG]</a></p>
 </dd>
 <dt class="label" id="eigsync"><span class="brackets"><a class="fn-backref" href="#id2">2</a></span></dt>
-<dd><ol class="upperalpha simple" start="13">
-<li><p>Cucuringu, Y. Lipman, A. Singer (2012). Sensor network localization by eigenvector synchronization over the euclidean group. ACM Transactions on Sensor Networks 8.3. DOI: <a class="reference external" href="https://doi.org/10.1145/2240092.2240093">10.1145/2240092.2240093</a></p></li>
-</ol>
+<dd><p>M. Cucuringu, Y. Lipman, A. Singer (2012). Sensor network localization by eigenvector synchronization over the euclidean group. ACM Transactions on Sensor Networks 8.3. DOI: <a class="reference external" href="https://doi.org/10.1145/2240092.2240093">10.1145/2240092.2240093</a></p>
 </dd>
 </dl>
 <div class="toctree-wrapper compound">

diff --git a/docs/usage/sg_execution_times.html b/docs/usage/sg_execution_times.html
@@ -178,7 +178,7 @@
             
   <div class="section" id="computation-times">
 <span id="sphx-glr-usage-sg-execution-times"></span><h1>Computation times<a class="headerlink" href="#computation-times" title="Permalink to this headline">¶</a></h1>
-<p><strong>00:02.705</strong> total execution time for <strong>usage</strong> files:</p>
+<p><strong>00:22.092</strong> total execution time for <strong>usage</strong> files:</p>
 <table class="docutils align-default">
 <colgroup>
 <col style="width: 71%" />
@@ -187,7 +187,7 @@
 </colgroup>
 <tbody>
 <tr class="row-odd"><td><p><a class="reference internal" href="usage.html#sphx-glr-usage-usage-py"><span class="std std-ref">Usage</span></a> (<code class="docutils literal notranslate"><span class="pre">usage.py</span></code>)</p></td>
-<td><p>00:02.705</p></td>
+<td><p>00:22.092</p></td>
 <td><p>0.0 MB</p></td>
 </tr>
 </tbody>

diff --git a/docsrc/source/index.rst b/docsrc/source/index.rst
@@ -22,9 +22,9 @@ patches as input and aligns them to obtain a global embedding. The alignment ste
 References
 +++++++++++
 
-.. [#l2g] L. G. S. Jeub, G. Colavizza, X. Dong, M. Bazzi, M. Cucuringu (2021). Local2Global: Scaling global representation learning on graphs via local training. DLG-KDD'21. `arXiv:2107.12224 [cs.LG] <https://arxiv.org/abs/2107.12224>`_
+.. [#l2g] \L. G. S. Jeub, G. Colavizza, X. Dong, M. Bazzi, M. Cucuringu (2021). Local2Global: Scaling global representation learning on graphs via local training. DLG-KDD'21. `arXiv:2107.12224 [cs.LG] <https://arxiv.org/abs/2107.12224>`_
 
-.. [#eigsync] M. Cucuringu, Y. Lipman, A. Singer (2012). Sensor network localization by eigenvector synchronization over the euclidean group. ACM Transactions on Sensor Networks 8.3. DOI: `10.1145/2240092.2240093 <https://doi.org/10.1145/2240092.2240093>`_
+.. [#eigsync] \M. Cucuringu, Y. Lipman, A. Singer (2012). Sensor network localization by eigenvector synchronization over the euclidean group. ACM Transactions on Sensor Networks 8.3. DOI: `10.1145/2240092.2240093 <https://doi.org/10.1145/2240092.2240093>`_
 
 
 .. toctree::
